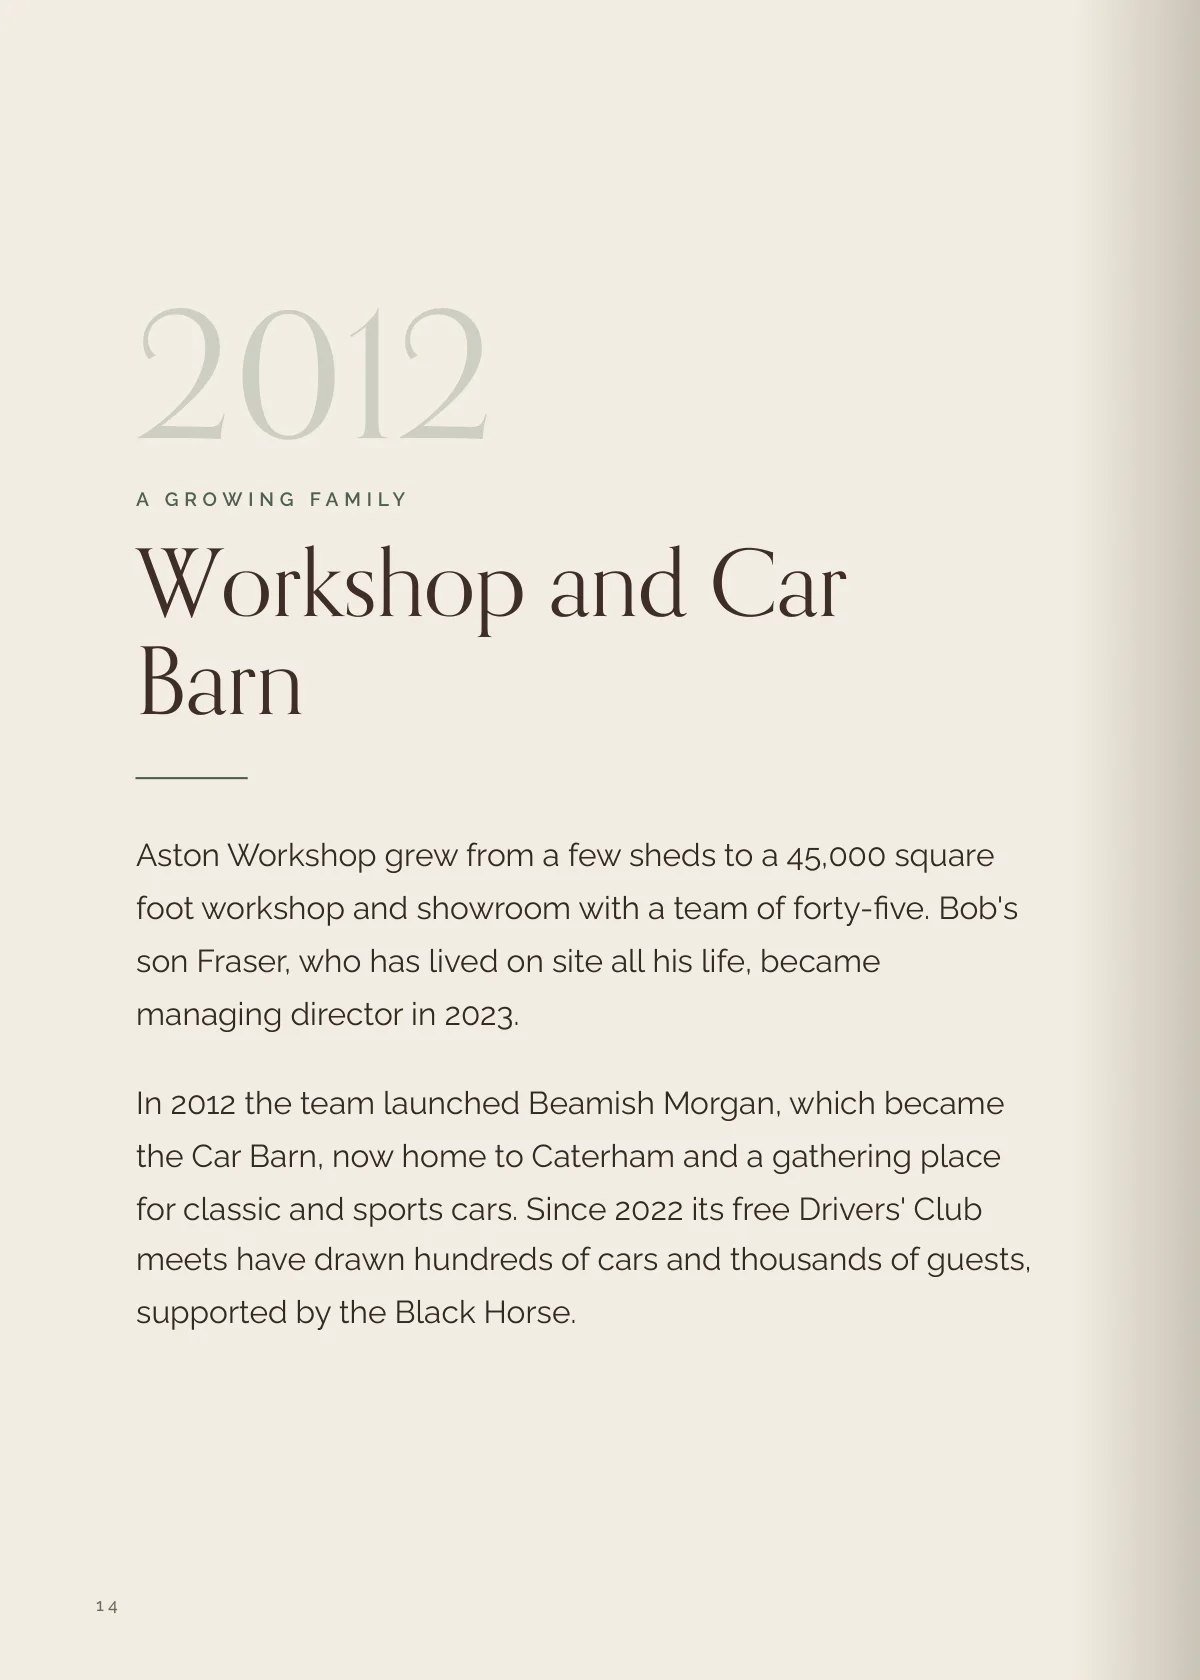
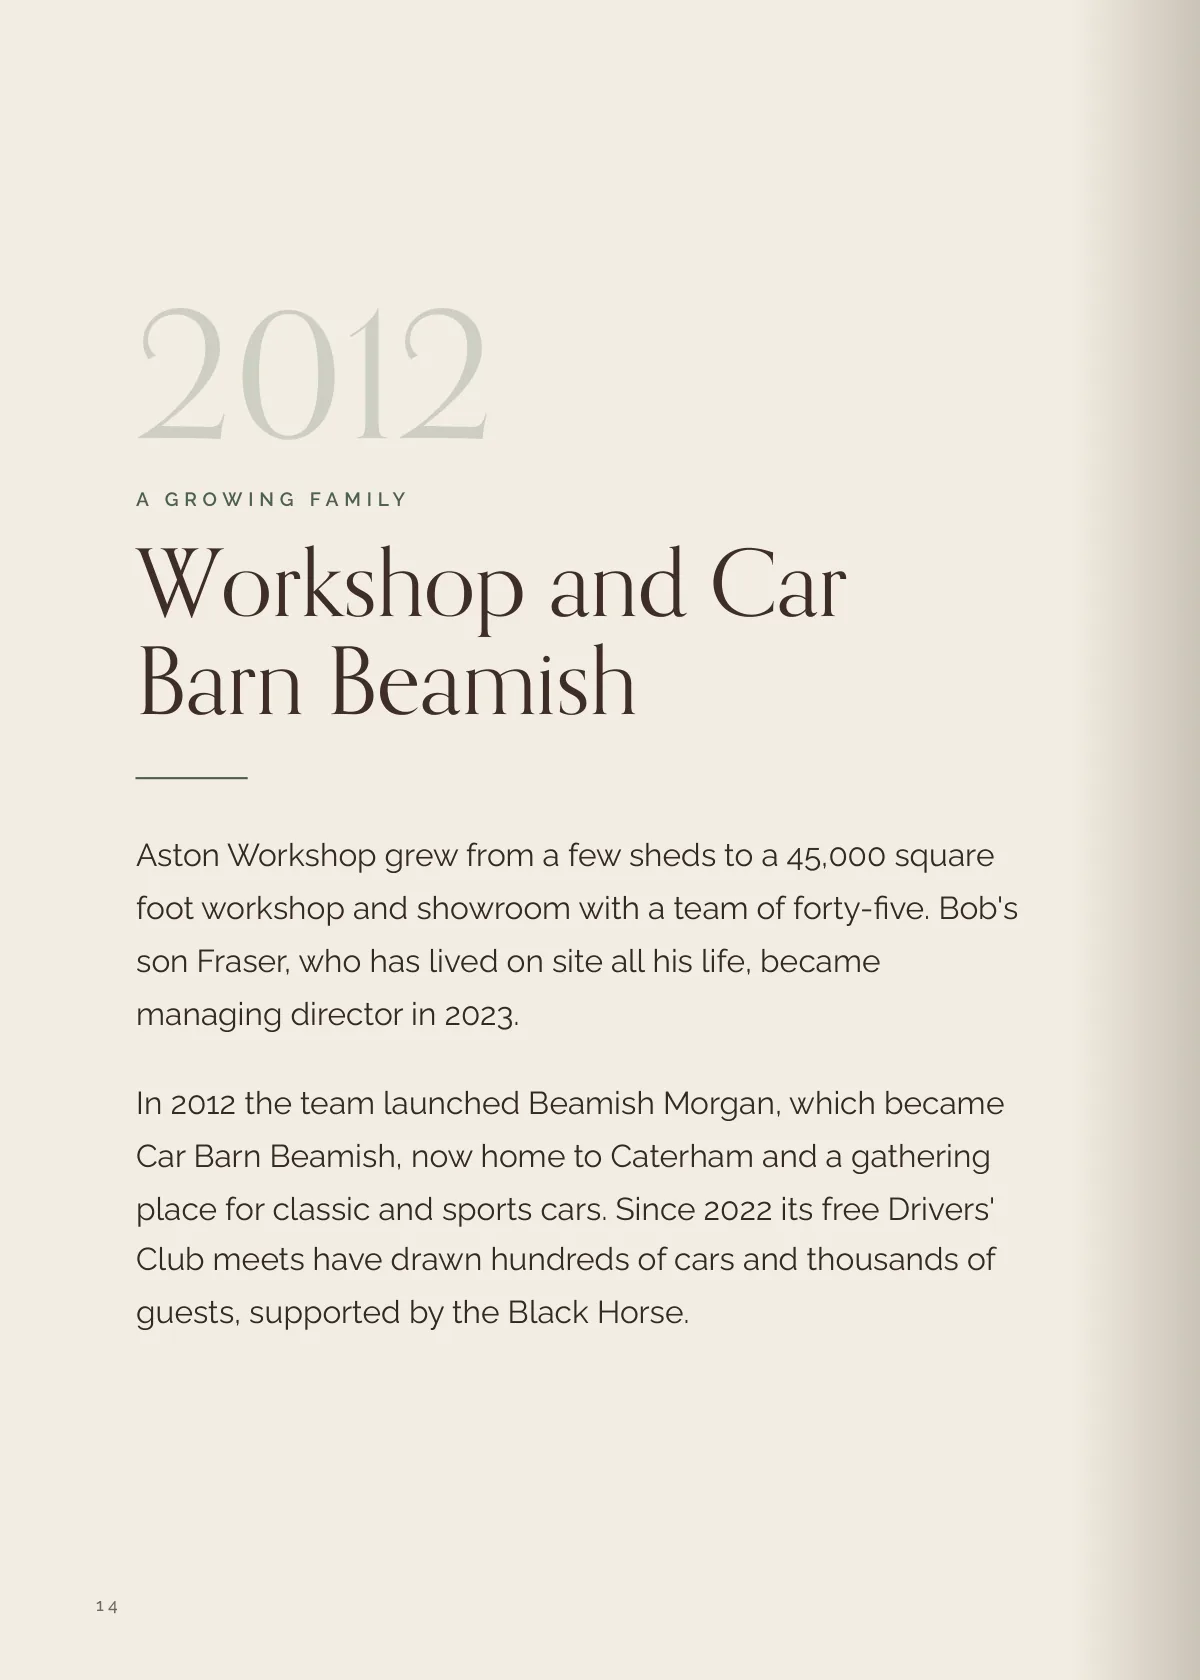
Our Story flip-book: say Car Barn Beamish

Changed region(s): [[0.1233, 0.681, 0.8633, 0.8048], [0.2775, 0.3714, 0.5242, 0.4333]]

diff --git a/our-story-book/index.html b/our-story-book/index.html
@@ -84,7 +84,7 @@ const PAGES = ["Cover: The Story of the Black Horse Beamish",
  "Causey Arch, built 1725 to 1726", "A valley that worked", "Red Row, near Causey: an archive photograph", "Red Row",
  "The Black Horse", "Outside the Black Horse: an archive photograph", "Adding to the matchbox beams", "The matchbox pub",
  "A DB5 and an obsession", "The farmhouse and the early workshop", "The courtyard", "The pub brought back to life, 2006 to 2010",
- "Workshop and Car Barn", "The workshop, then and now", "The Orchard Marquee among the lavender", "The Orchard Marquee, 2016",
+ "Workshop and Car Barn Beamish", "The workshop, then and now", "The Orchard Marquee among the lavender", "The Orchard Marquee, 2016",
  "Field to plate", "Sunset over the lavender and the pub in summer", "Huckleberry Cottage", "Rooms in the valley",
  "Red Row Estate from the air", "Red Row Estate today", "Back cover"];
 const N = PAGES.length;
@@ -100,11 +100,11 @@ const STEPS = [
  {pg:7,  d:15, c:["Landlords came and went, and each hung matchboxes from the beams.","Hundreds of souvenirs from across the world made it the matchbox pub,","and in 2025 the collection grew again."]},
  {pg:9,  d:17, c:["In the 1980s Bob Fountain bought the land at Red Row.","In the sheds by his farmhouse he restored an Aston Martin DB5,","and in 1988 that obsession became Aston Workshop."]},
  {pg:11, d:17, c:["Next door, the old pub had closed and fallen into disrepair.","In 2006 Bob bought it. Where better to have a pub than at the end of your garden?","After years of restoration it re-opened in 2010, creating thirty jobs."]},
- {pg:13, d:17, c:["Aston Workshop grew from a few sheds into a 45,000 square foot workshop.","In 2012 came Beamish Morgan, which became the Car Barn,","and since 2022 its free Drivers' Club meets have drawn hundreds of cars."]},
+ {pg:13, d:17, c:["Aston Workshop grew from a few sheds into a 45,000 square foot workshop.","In 2012 came Beamish Morgan, which became Car Barn Beamish,","and since 2022 its free Drivers' Club meets have drawn hundreds of cars."]},
  {pg:15, d:15, c:["In 2016 a permanent marquee opened among the grounds.","Weddings, parties and celebrations followed,","and in 2025 the Orchard Marquee won a Certificate of Excellence."]},
  {pg:17, d:15, c:["The kitchen grows what it cooks: herbs, fruit and vegetables from the estate.","Red Row Organics brings the estate onto the plate,","and the lavender field is there for everyone to wander through."]},
  {pg:19, d:15, c:["Stay a while: the Old Red Row Rooms, Red Row Retreat and Huckleberry Cottage.","Rooms named Rosemary, Lovage, Sage and Thyme,","with space for up to forty-seven guests."]},
- {pg:21, d:17, c:["Today, Red Row Estate stretches across thirty-seven acres of Beamish countryside.","A pub, a workshop, the Car Barn, a marquee, rooms, lavender and gardens.","One estate, one story, still being written."]},
+ {pg:21, d:17, c:["Today, Red Row Estate stretches across thirty-seven acres of Beamish countryside.","A pub, a workshop, Car Barn Beamish, a marquee, rooms, lavender and gardens.","One estate, one story, still being written."]},
  {pg:23, d:9,  c:["Come and be part of the next chapter.","Black Horse Beamish, Red Row Estate."]},
 ];
 const FLIP_MS = 1500;
